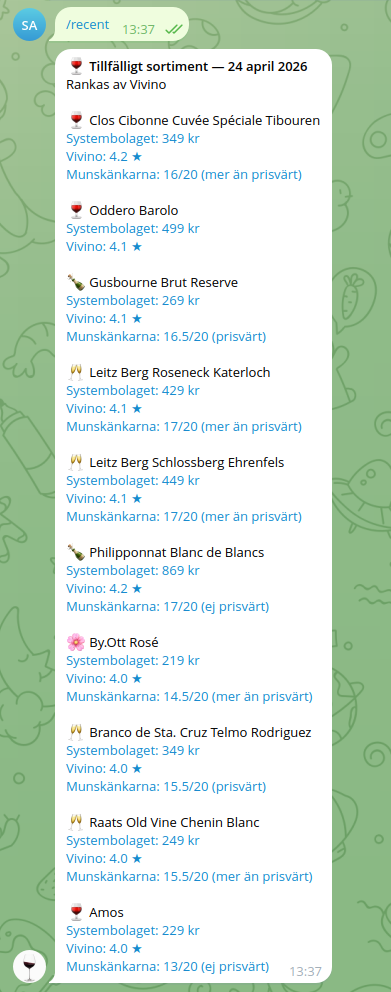
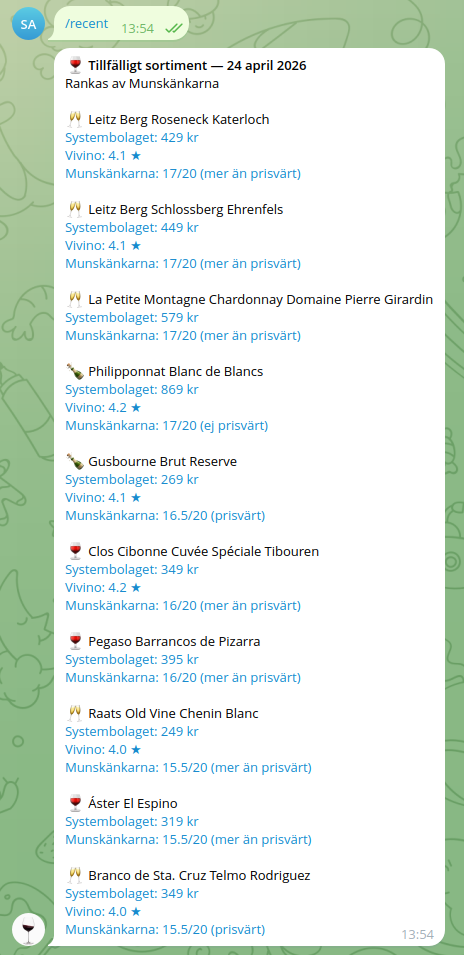
docs: gallery row showing default vs filtered list
Two screenshots — default /recent and /recent with budget+category
filters applied — rendered at equal height to demonstrate the active
filter sub-lines.

diff --git a/README.md b/README.md
@@ -13,10 +13,12 @@
 
 ## Example
 
-A typical `/recent` reply, showing the top wines from the last release:
+A `/recent` reply by default — and the same list once a budget and Munskänkarna value-category filter are applied:
 
 <p align="center">
-  <img src="docs/list.png" alt="example /recent output in Telegram" width="380"/>
+  <img src="docs/recent_list.png" alt="default /recent list" height="520"/>
+  &nbsp;&nbsp;&nbsp;&nbsp;&nbsp;&nbsp;
+  <img src="docs/recent_filters.png" alt="/recent with budget and category filters applied" height="520"/>
 </p>
 
 ## Commands
